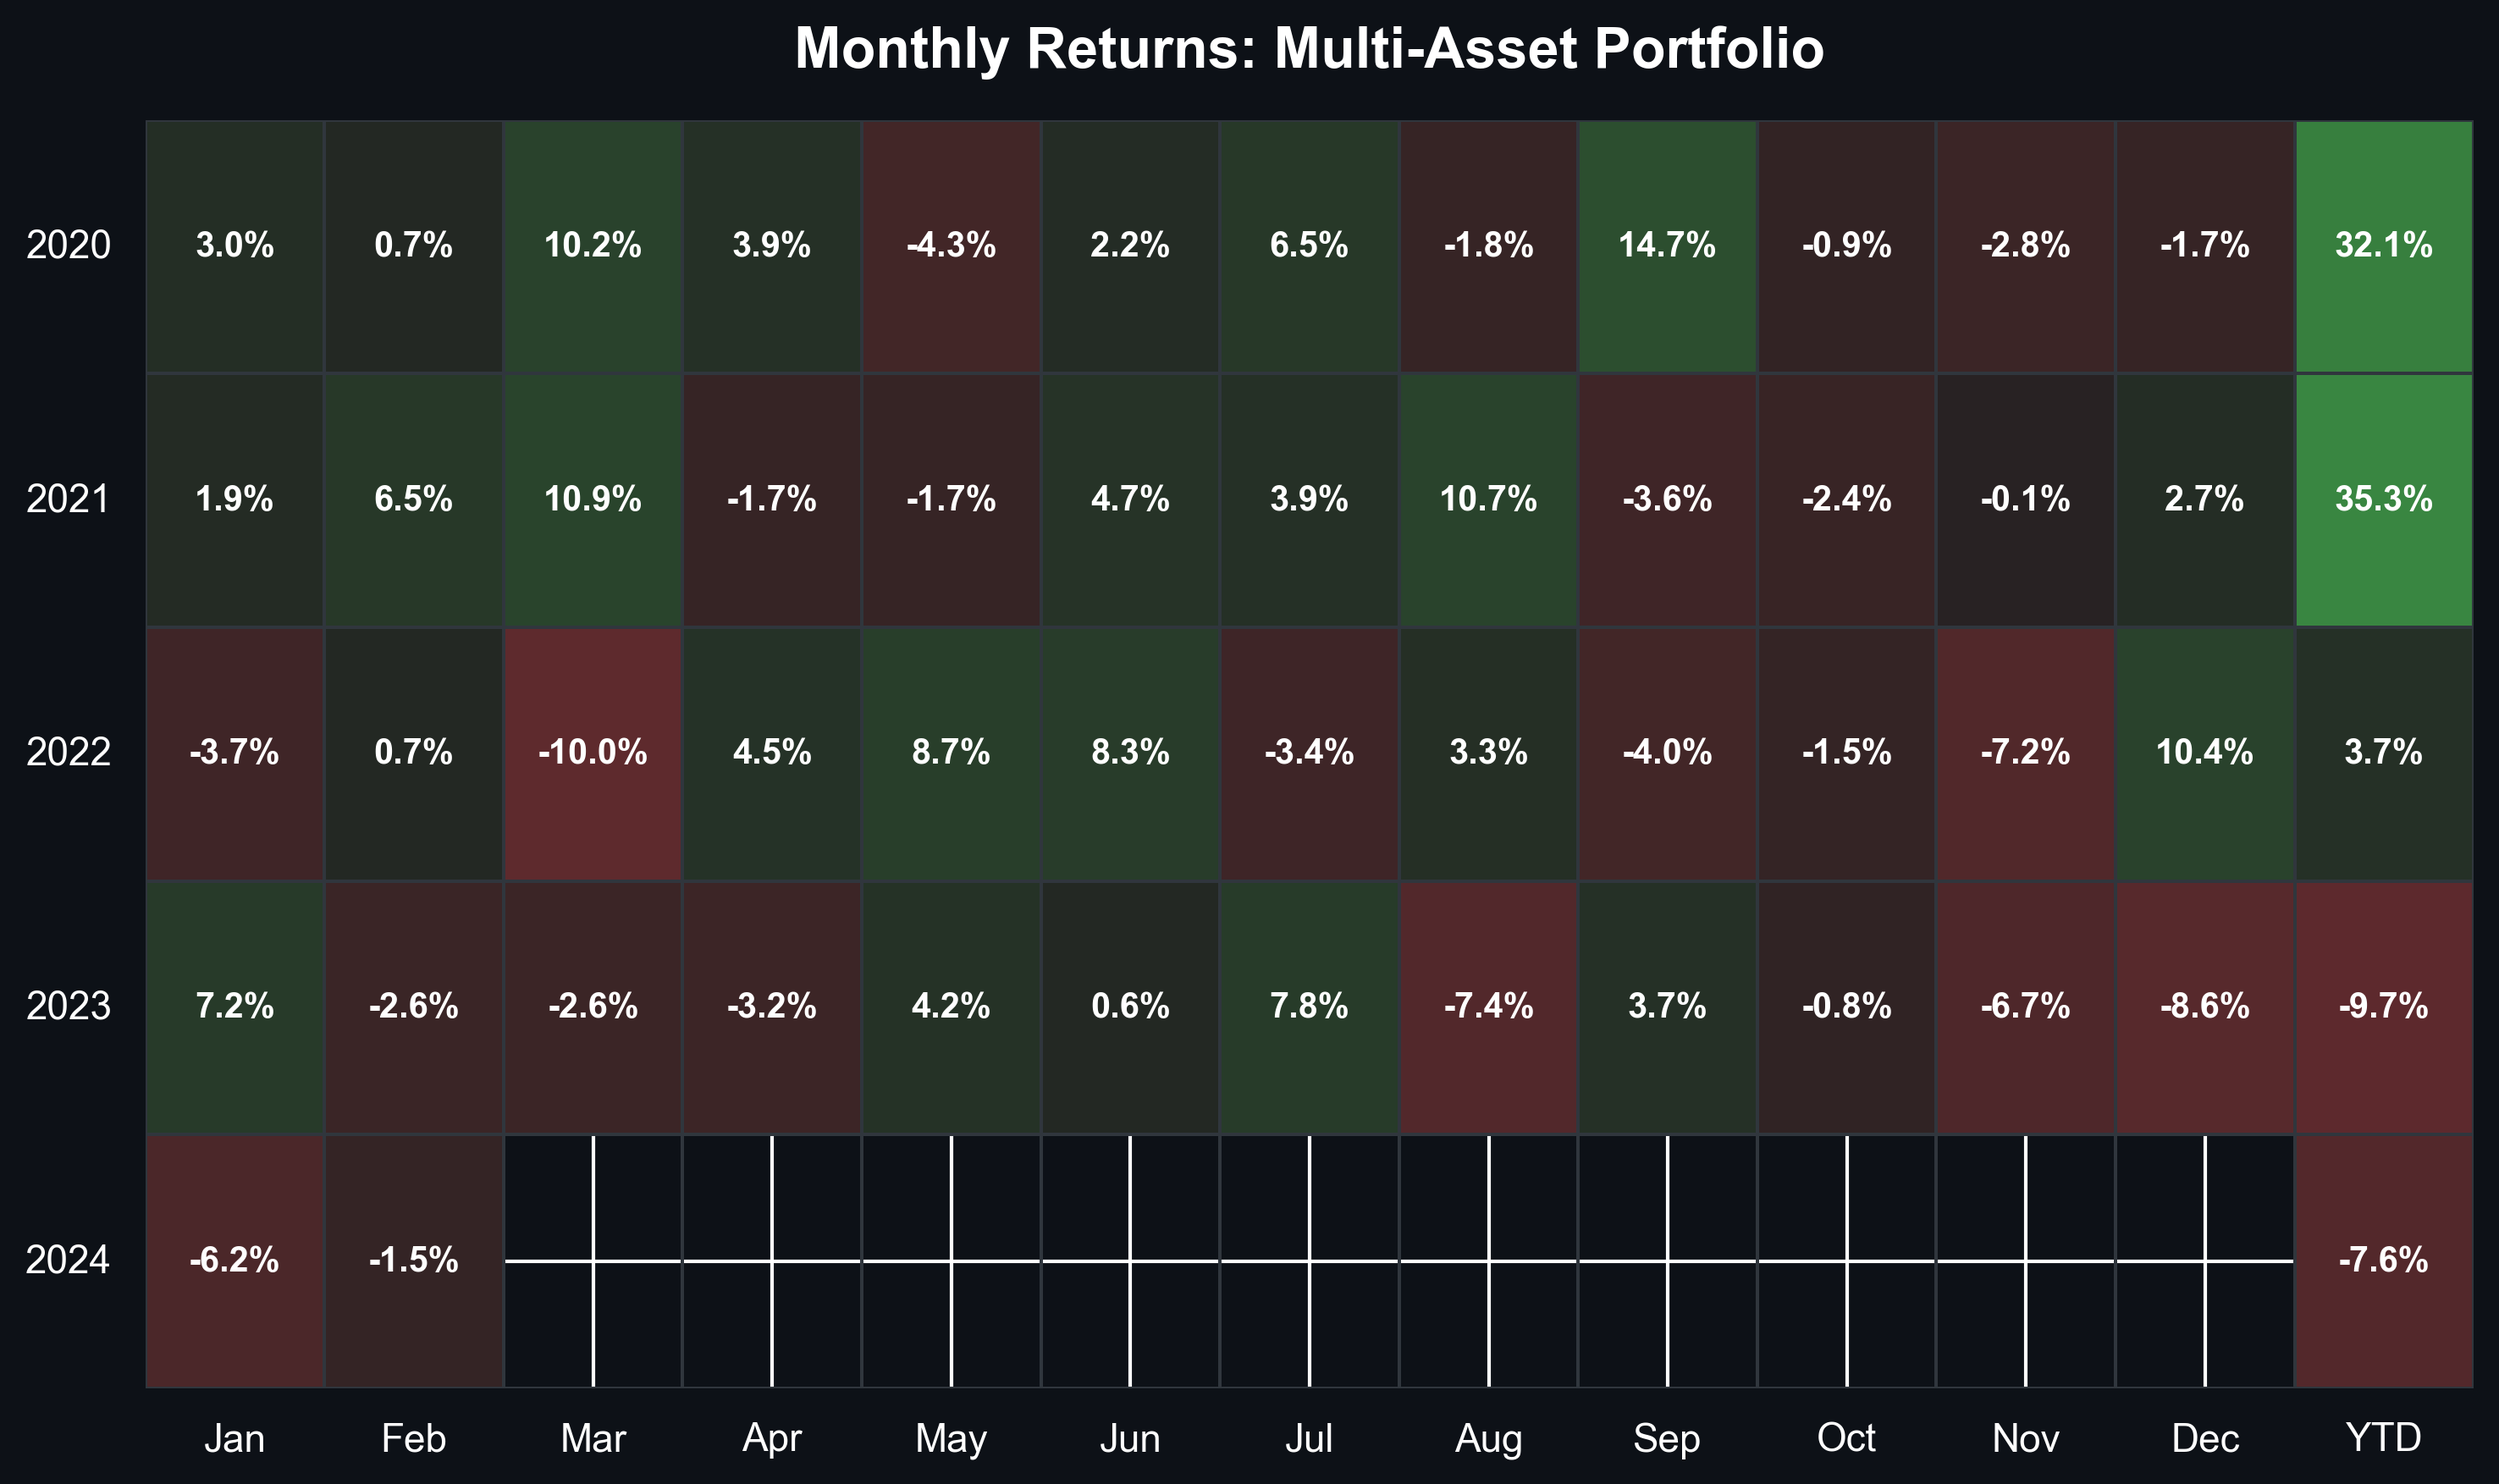
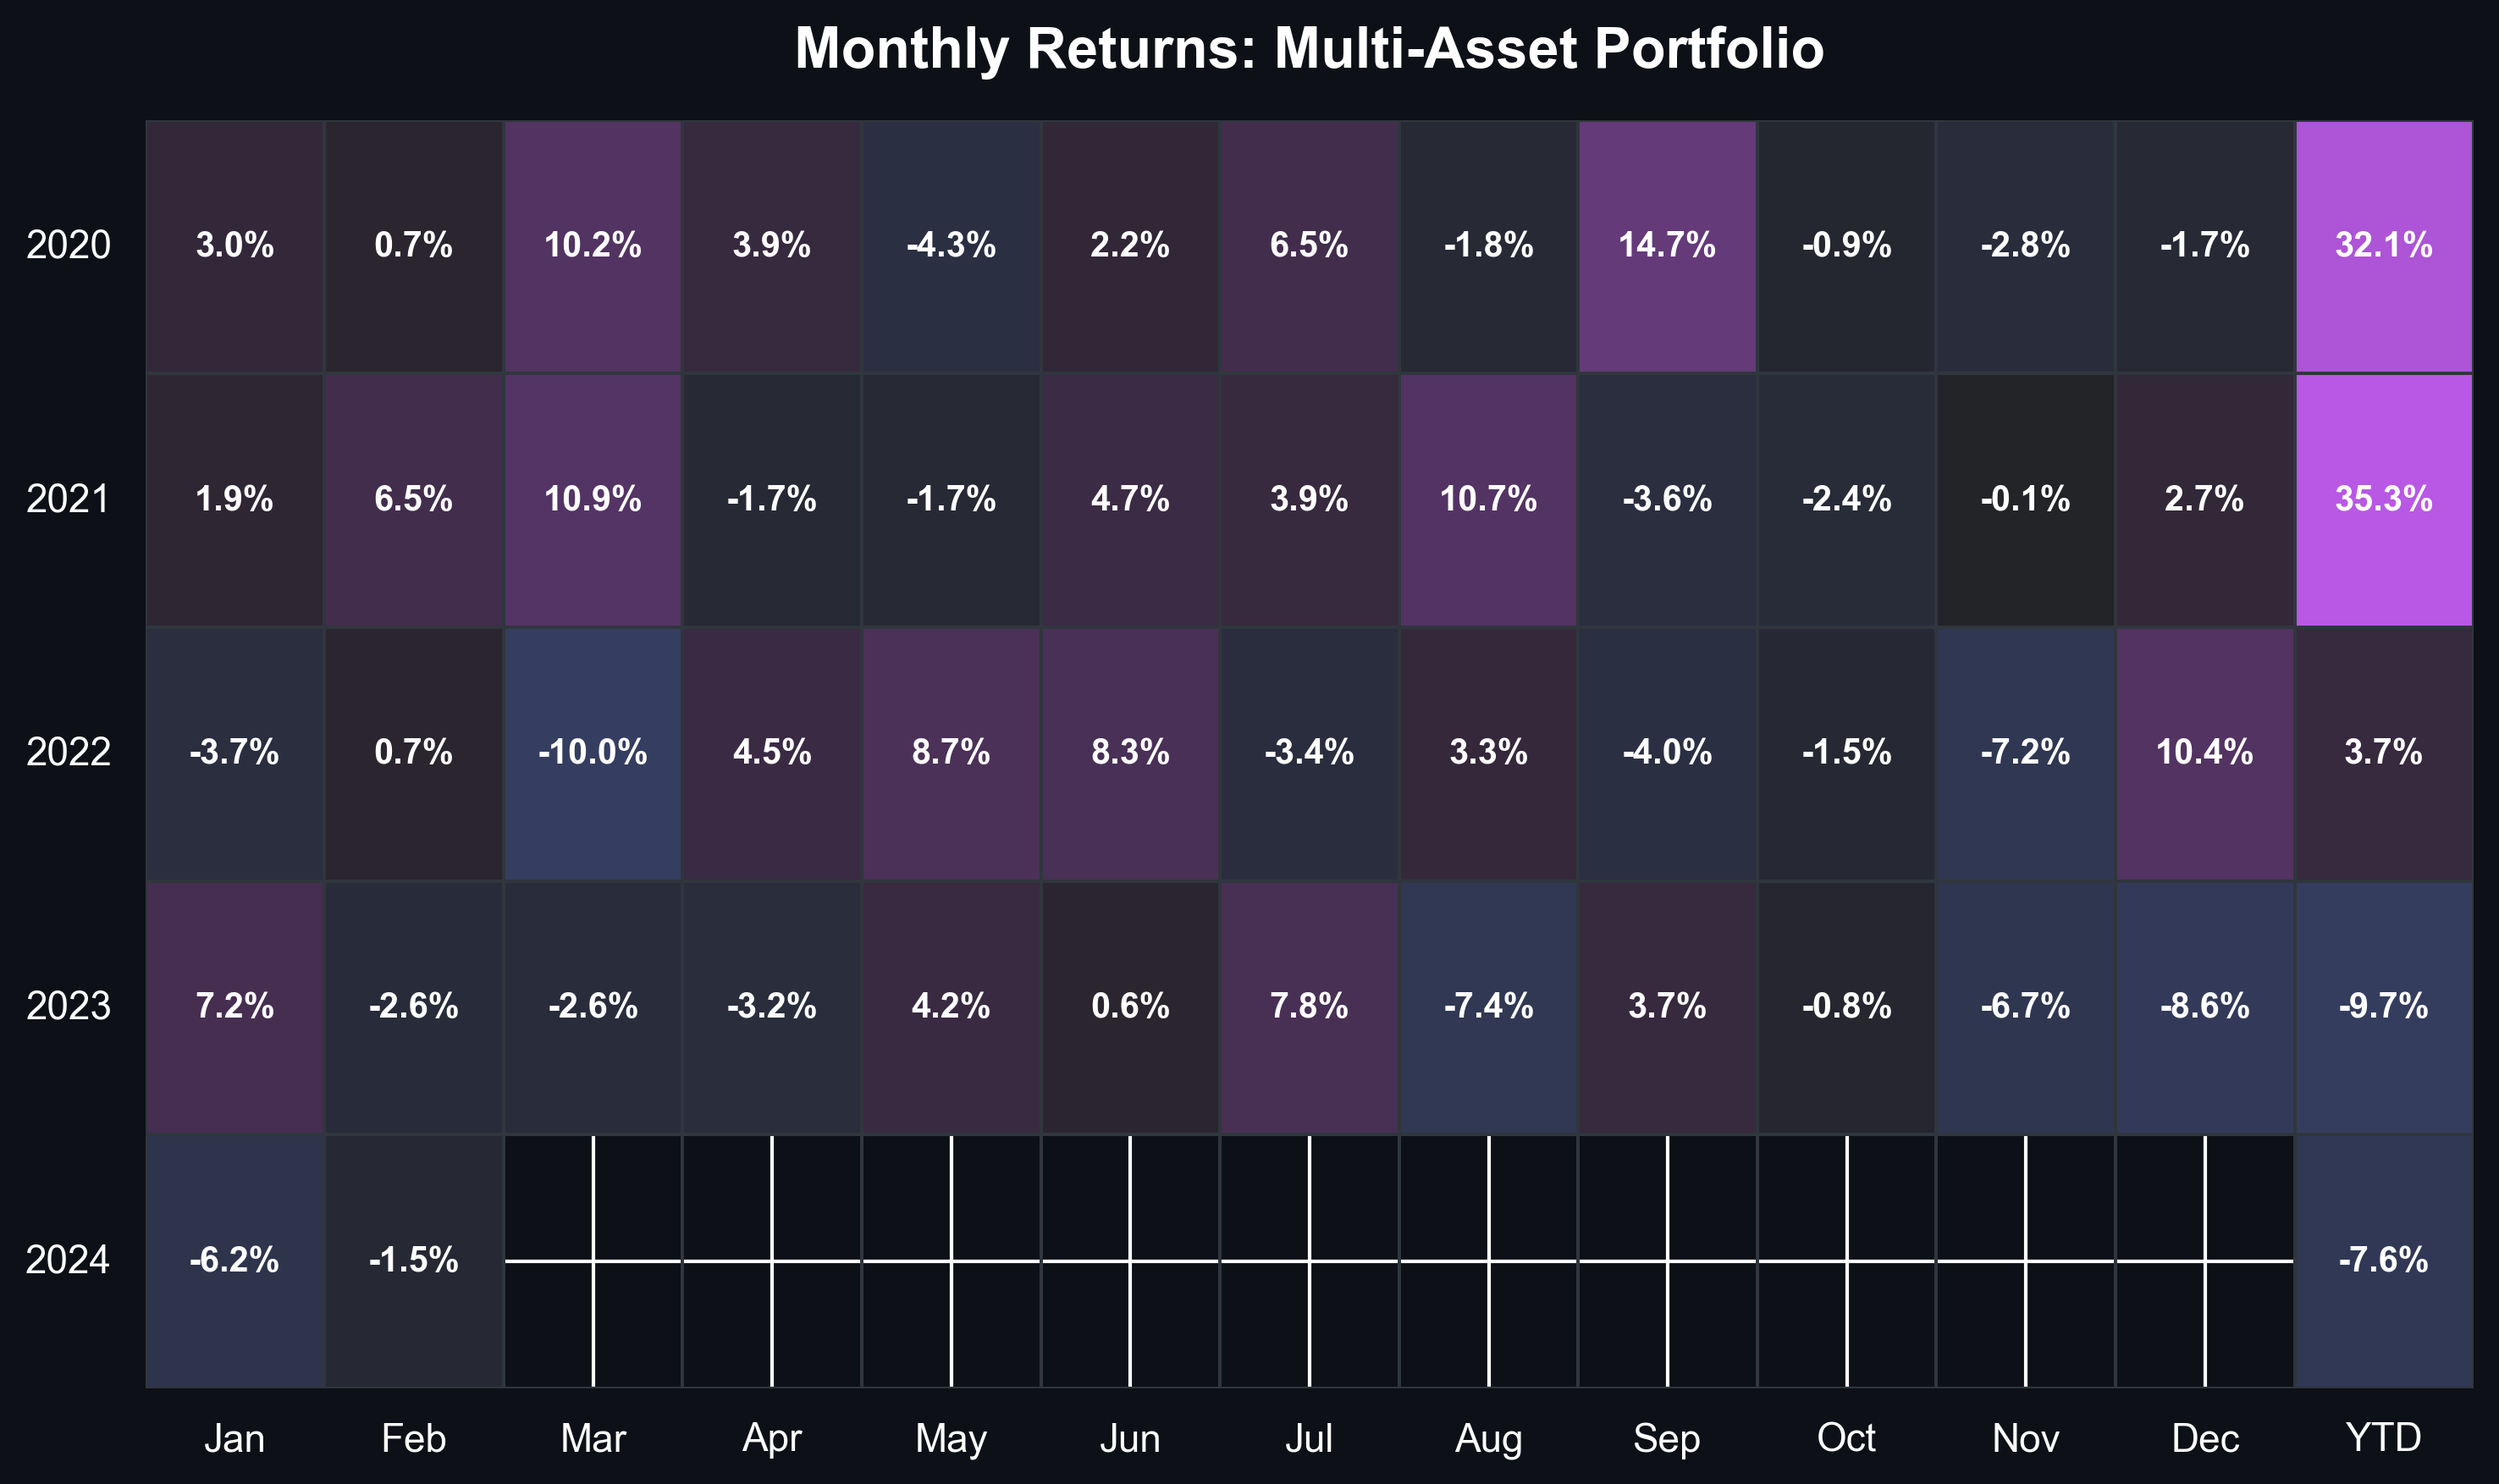
style: update monthly heatmap base colour palette to dark/light violet mix

diff --git a/nexus/utils/visualizer.py b/nexus/utils/visualizer.py
@@ -1,4 +1,6 @@
 import os
+import calendar
+import datetime
 import numpy as np
 import pandas as pd
 import seaborn as sns
@@ -232,6 +234,98 @@ class NexusVisualizer:
         print(f"Rolling Risk graph saved to: {output_path}")
         plt.close()
 
+    @staticmethod
+    def render_monthly_returns_heatmap(
+        returns: pd.Series,
+        asset_name: str = "Portfolio",
+        output_path: str = "docs/assets/monthly_heatmap.png"
+    ):
+        """
+        Renders an institutional monthly returns heatmap (QuantStats style).
+        """
+        sns.set_theme(style="darkgrid")
+        plt.style.use("dark_background")
+        
+        if not isinstance(returns.index, pd.DatetimeIndex):
+            returns.index = pd.date_range(end=datetime.date.today(), periods=len(returns), freq='B')
+            
+        monthly_ret = returns.resample('ME').apply(lambda x: (1 + x).prod() - 1)
+        heatmap_data = monthly_ret.groupby([monthly_ret.index.year, monthly_ret.index.month]).sum().unstack()
+        heatmap_data.columns = [calendar.month_abbr[i] for i in heatmap_data.columns]
+        heatmap_data.index.name = "Year"
+        
+        yearly_ret = returns.resample('YE').apply(lambda x: (1 + x).prod() - 1)
+        yearly_ret.index = yearly_ret.index.year
+        heatmap_data['YTD'] = yearly_ret
+        
+        fig, ax = plt.subplots(figsize=(10, max(4, len(heatmap_data) * 0.8 + 2)), dpi=300)
+        fig.patch.set_facecolor('#0d1117')
+        ax.set_facecolor('#0d1117')
+        
+        # Purple/Violet diverging palette
+        cmap = sns.diverging_palette(260, 290, s=80, l=55, as_cmap=True, center="dark")
+        
+        sns.heatmap(heatmap_data, annot=True, fmt=".1%", cmap=cmap, center=0.0,
+                    linewidths=0.5, linecolor='#30363d', cbar=False, ax=ax,
+                    annot_kws={"weight": "bold", "size": 10})
+        
+        ax.set_title(f"Monthly Returns: {asset_name}", fontsize=16, fontweight='bold', color='white', pad=15)
+        ax.tick_params(axis='x', colors='white')
+        ax.tick_params(axis='y', colors='white', rotation=0)
+        ax.set_ylabel("")
+        
+        plt.tight_layout()
+        os.makedirs(os.path.dirname(output_path), exist_ok=True)
+        plt.savefig(output_path, facecolor=fig.get_facecolor(), edgecolor='none', bbox_inches='tight')
+        print(f"Monthly Heatmap saved to: {output_path}")
+        plt.close()
+
+    @staticmethod
+    def render_risk_return_scatter(
+        returns_df: pd.DataFrame,
+        output_path: str = "docs/assets/risk_return_scatter.png"
+    ):
+        """
+        Renders a risk (volatility) vs. return scatter plot for multiple assets.
+        """
+        sns.set_theme(style="darkgrid")
+        plt.style.use("dark_background")
+        
+        fig, ax = plt.subplots(figsize=(10, 6), dpi=300)
+        fig.patch.set_facecolor('#0d1117')
+        ax.set_facecolor('#0d1117')
+        
+        ann_return = (1 + returns_df.mean())**252 - 1
+        ann_vol = returns_df.std() * np.sqrt(252)
+        
+        ax.scatter(ann_vol, ann_return, color="#00f2fe", edgecolors="white", s=100, alpha=0.9, zorder=5)
+        
+        for i, txt in enumerate(returns_df.columns):
+            ax.annotate(txt, (ann_vol.iloc[i], ann_return.iloc[i]), 
+                       xytext=(8, 8), textcoords='offset points', 
+                       color='white', fontsize=11, weight='bold')
+                       
+        if len(returns_df.columns) > 1:
+            z = np.polyfit(ann_vol, ann_return, 1)
+            p = np.poly1d(z)
+            ax.plot(ann_vol, p(ann_vol), color="#fe0060", linestyle="--", alpha=0.5, linewidth=2, zorder=4)
+        
+        ax.set_title("Asset Efficiency: Risk vs. Return", fontsize=16, fontweight='bold', color='white', pad=15)
+        ax.set_xlabel("Annualized Risk (Volatility)", fontsize=12, color='white')
+        ax.set_ylabel("Annualized Return", fontsize=12, color='white')
+        
+        ax.xaxis.set_major_formatter(plt.FuncFormatter(lambda x, _: f'{x:.1%}'))
+        ax.yaxis.set_major_formatter(plt.FuncFormatter(lambda x, _: f'{x:.1%}'))
+        
+        ax.tick_params(colors='white')
+        ax.grid(color='#30363d', linestyle='-', linewidth=0.5, zorder=0)
+        
+        plt.tight_layout()
+        os.makedirs(os.path.dirname(output_path), exist_ok=True)
+        plt.savefig(output_path, facecolor=fig.get_facecolor(), edgecolor='none', bbox_inches='tight')
+        print(f"Risk-Return Scatter saved to: {output_path}")
+        plt.close()
+
 
 if __name__ == "__main__":
     from nexus.analytics.analyzer import NexusAnalyzer
@@ -279,3 +373,9 @@ if __name__ == "__main__":
     # 5. Rolling Risk
     portfolio_sim = df_sim.sum(axis=1) / 4
     NexusVisualizer.render_rolling_risk(portfolio_sim, asset_name="Multi-Asset Portfolio")
+    
+    # 6. Monthly Returns Heatmap
+    NexusVisualizer.render_monthly_returns_heatmap(portfolio_sim, asset_name="Multi-Asset Portfolio")
+    
+    # 7. Risk-Return Scatter
+    NexusVisualizer.render_risk_return_scatter(df_sim)
